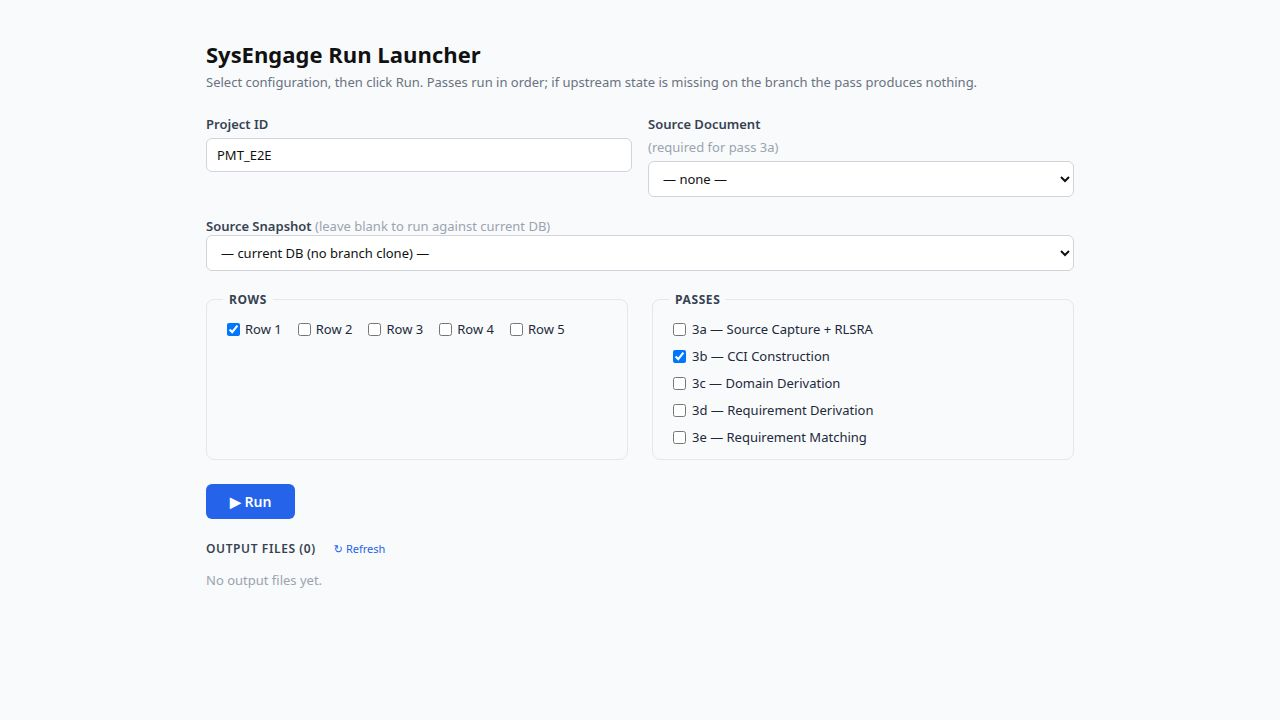
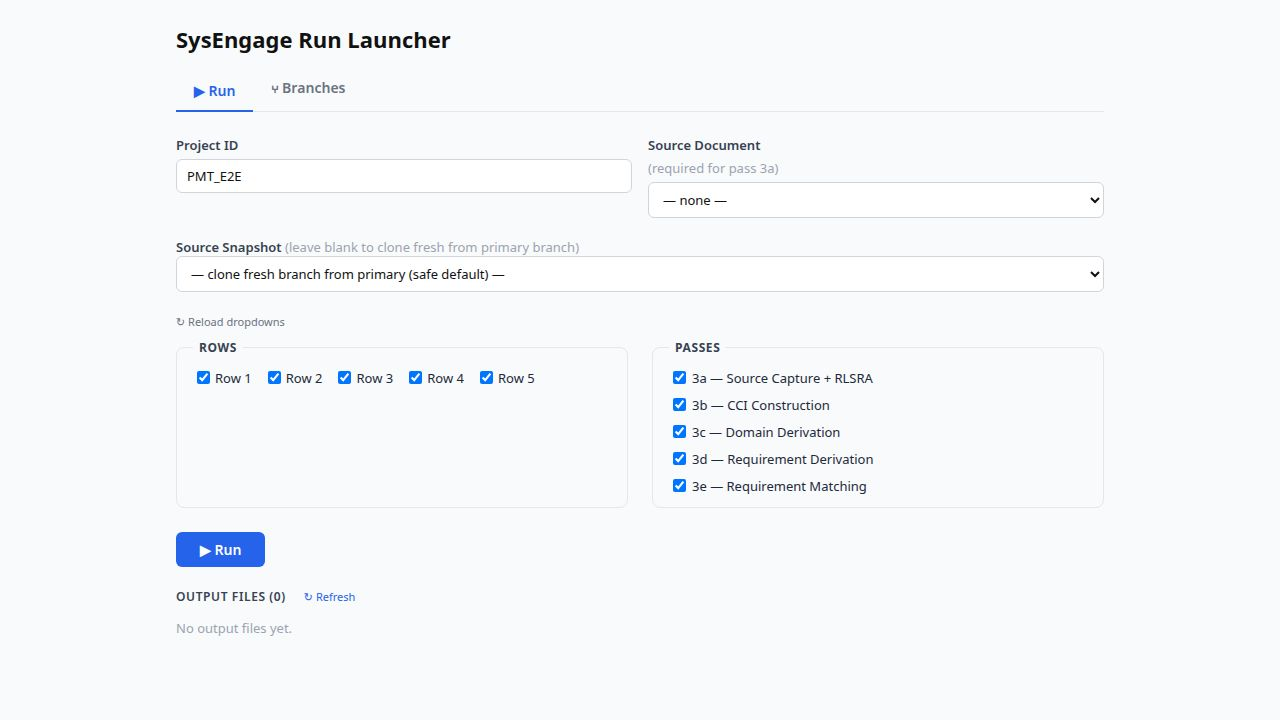
feat(launcher): add per-row progress strip to the Run launcher
Task: Show per-row progress in the launcher so you know which rows are done at a glance

## What was built
Added a compact RowProgressStrip component that appears above the live log console
whenever a run is active. It shows a badge per row — R1 ✓  R2 ⟳  R3 – — that
updates in real time as the dispatch loop processes each row.

## Implementation details
- Parse the existing SSE log stream for two banner strings emitted by run_dispatch.py:
    "[dispatch] ════ Row N — starting passes ════"  → mark row as "running"
    "[dispatch] ════ Row N complete — exporting…"   → mark row as "done"
- No API or backend changes required.
- Row statuses: pending (–, gray) / running (⟳, blue, spinning icon) / done (✓, green) /
  failed (✗, red — applied to any still-running/pending rows when the process exits non-zero).
- Clicking a "done" badge scrolls the log pane to the "Row N complete" banner line.
  Implemented via data-log-idx attributes and scrollIntoView. Badge click passes the
  stored completion line index (rowCompleteLine[row]) to scrollToLogLine — not the row
  number — so the scroll lands on the exact banner line.
- When a fresh run is started the rows are pre-populated as "pending" immediately so
  the strip appears before the first banner line arrives.
- When reconnecting to an already-active run on page load, rows are discovered
  dynamically as their start banners appear in the replayed log stream.
[…]

diff --git a/artifacts/launcher/src/App.tsx b/artifacts/launcher/src/App.tsx
@@ -40,6 +40,8 @@ interface RunState {
   logs: string[];
 }
 
+type RowStatus = "pending" | "running" | "done" | "failed";
+
 // ---------------------------------------------------------------------------
 // Constants
 // ---------------------------------------------------------------------------
@@ -53,6 +55,10 @@ const PASS_LABELS: Record<string, string> = {
   "3d": "3d — Requirement Derivation",
   "3e": "3e — Requirement Matching",
 };
+
+// Regex patterns for the run_dispatch.py banner strings
+const ROW_START_RE = /\[dispatch\] ════ Row (\d+) — starting passes/;
+const ROW_COMPLETE_RE = /\[dispatch\] ════ Row (\d+) complete/;
 
 // ---------------------------------------------------------------------------
 // Shared styles
@@ -79,6 +85,71 @@ const checkLabelStyle: React.CSSProperties = {
 };
 
 // ---------------------------------------------------------------------------
+// RowProgressStrip
+// ---------------------------------------------------------------------------
+
+const STATUS_CONFIG: Record<RowStatus, { icon: string; bg: string; fg: string; border: string; title: string }> = {
+  pending: { icon: "–",  bg: "#f3f4f6", fg: "#6b7280", border: "#d1d5db", title: "Pending" },
+  running: { icon: "⟳",  bg: "#eff6ff", fg: "#2563eb", border: "#93c5fd", title: "Running" },
+  done:    { icon: "✓",  bg: "#f0fdf4", fg: "#16a34a", border: "#86efac", title: "Done" },
+  failed:  { icon: "✗",  bg: "#fef2f2", fg: "#dc2626", border: "#fca5a5", title: "Failed" },
+};
+
+interface RowProgressStripProps {
+  rowProgress: Record<number, RowStatus>;
+  rowCompleteLine: Record<number, number>;
+  onBadgeClick: (row: number) => void;
+}
+
+function RowProgressStrip({ rowProgress, rowCompleteLine, onBadgeClick }: RowProgressStripProps) {
+  const rows = Object.keys(rowProgress).map(Number).sort((a, b) => a - b);
+  if (rows.length === 0) return null;
+
+  return (
+    <div style={{
+      display: "flex", alignItems: "center", gap: 8, flexWrap: "wrap",
+      background: "#f8fafc", border: "1px solid #e2e8f0", borderRadius: 8,
+      padding: "10px 14px", marginBottom: 14,
+    }}>
+      <span style={{ fontSize: 11, fontWeight: 700, color: "#475569", textTransform: "uppercase", letterSpacing: "0.06em", marginRight: 4 }}>
+        Rows
+      </span>
+      {rows.map(row => {
+        const status = rowProgress[row];
+        const cfg = STATUS_CONFIG[status];
+        const hasCompleteLine = rowCompleteLine[row] !== undefined;
+        const clickable = hasCompleteLine;
+        return (
+          <button
+            key={row}
+            title={`Row ${row}: ${cfg.title}${clickable ? " — click to jump to completion in log" : ""}`}
+            onClick={() => clickable && onBadgeClick(rowCompleteLine[row])}
+            style={{
+              display: "inline-flex", alignItems: "center", gap: 4,
+              background: cfg.bg, color: cfg.fg,
+              border: `1px solid ${cfg.border}`,
+              borderRadius: 6, padding: "3px 10px",
+              fontSize: 12, fontWeight: 700,
+              cursor: clickable ? "pointer" : "default",
+              transition: "opacity 0.15s",
+              fontFamily: "system-ui, sans-serif",
+            }}
+          >
+            <span style={{ fontWeight: 600, color: "#64748b", marginRight: 1 }}>R{row}</span>
+            <span style={{
+              fontSize: status === "running" ? 14 : 13,
+              display: "inline-block",
+              animation: status === "running" ? "spin 1.2s linear infinite" : undefined,
+            }}>{cfg.icon}</span>
+          </button>
+        );
+      })}
+      <style>{`@keyframes spin { from { transform: rotate(0deg); } to { transform: rotate(360deg); } }`}</style>
+    </div>
+  );
+}
+
+// ---------------------------------------------------------------------------
 // LaunchPage
 // ---------------------------------------------------------------------------
 
@@ -94,9 +165,12 @@ function LaunchPage() {
   const [sourceDoc, setSourceDoc] = useState("");
 
   const [run, setRun] = useState<RunState>({ runId: null, running: false, exitCode: null, logs: [] });
+  const [rowProgress, setRowProgress] = useState<Record<number, RowStatus>>({});
+  const [rowCompleteLine, setRowCompleteLine] = useState<Record<number, number>>({});
 
   const logRef = useRef<HTMLDivElement>(null);
   const esRef = useRef<EventSource | null>(null);
+  const logCountRef = useRef(0);
 
   const fetchOutputs = useCallback(() => {
     fetchWithRetry(`${API}/outputs`).then(r => r.json()).then(setOutputs).catch(() => {});
@@ -108,21 +182,59 @@ function LaunchPage() {
     fetchOutputs();
   }, [fetchOutputs]);
 
-  const connectToRun = useCallback((runId: string) => {
+  const connectToRun = useCallback((runId: string, initialRows?: number[]) => {
+    logCountRef.current = 0;
     setRun({ runId, running: true, exitCode: null, logs: [] });
+    setRowCompleteLine({});
+    if (initialRows && initialRows.length > 0) {
+      const init: Record<number, RowStatus> = {};
+      for (const r of initialRows) init[r] = "pending";
+      setRowProgress(init);
+    } else {
+      setRowProgress({});
+    }
+
     const es = new EventSource(`${API}/runs/${runId}/logs`);
     esRef.current = es;
+
     es.addEventListener("log", (e) => {
       const line = JSON.parse((e as MessageEvent).data) as string;
+      const idx = logCountRef.current;
+      logCountRef.current += 1;
+
+      const startMatch = line.match(ROW_START_RE);
+      if (startMatch) {
+        const rowNum = parseInt(startMatch[1], 10);
+        setRowProgress(prev => ({ ...prev, [rowNum]: "running" }));
+      }
+
+      const completeMatch = line.match(ROW_COMPLETE_RE);
+      if (completeMatch) {
+        const rowNum = parseInt(completeMatch[1], 10);
+        setRowProgress(prev => ({ ...prev, [rowNum]: "done" }));
+        setRowCompleteLine(prev => ({ ...prev, [rowNum]: idx }));
+      }
+
       setRun(prev => ({ ...prev, logs: [...prev.logs, line] }));
     });
+
     es.addEventListener("done", (e) => {
       const { exitCode } = JSON.parse((e as MessageEvent).data) as { exitCode: number };
       setRun(prev => ({ ...prev, running: false, exitCode }));
+      if (exitCode !== 0) {
+        setRowProgress(prev => {
+          const n = { ...prev };
+          for (const k of Object.keys(n)) {
+            if (n[Number(k)] === "running" || n[Number(k)] === "pending") n[Number(k)] = "failed";
+          }
+          return n;
+        });
+      }
       es.close(); esRef.current = null;
       fetchOutputs();
       reloadConfig();
     });
+
     es.onerror = () => { setRun(prev => ({ ...prev, running: false })); es.close(); esRef.current = null; };
   }, [fetchOutputs, reloadConfig]);
 
@@ -142,6 +254,11 @@ function LaunchPage() {
     if (logRef.current) logRef.current.scrollTop = logRef.current.scrollHeight;
   }, [run.logs]);
 
+  function scrollToLogLine(lineIdx: number) {
+    const el = logRef.current?.querySelector(`[data-log-idx="${lineIdx}"]`);
+    if (el) el.scrollIntoView({ behavior: "smooth", block: "center" });
+  }
+
   function toggleRow(r: number) {
     setSelectedRows(prev => { const n = new Set(prev); n.has(r) ? n.delete(r) : n.add(r); return n; });
   }
@@ -153,6 +270,7 @@ function LaunchPage() {
     if (run.running) return;
     if (!selectedRows.size || !selectedPasses.size) { alert("Select at least one row and one pass."); return; }
 
+    const rows = Array.from(selectedRows).sort((a, b) => a - b);
     setRun({ runId: null, running: true, exitCode: null, logs: [] });
 
     try {
@@ -160,7 +278,7 @@ function LaunchPage() {
         method: "POST",
         headers: { "Content-Type": "application/json" },
         body: JSON.stringify({
-          project, rows: Array.from(selectedRows).sort((a, b) => a - b),
+          project, rows,
           passes: PASSES.filter(p => selectedPasses.has(p)),
           snapshot: snapshot || undefined,
           sourceDoc: sourceDoc || undefined,
@@ -181,7 +299,7 @@ function LaunchPage() {
       }
 
       const { runId } = await resp.json() as { runId: string };
-      connectToRun(runId);
+      connectToRun(runId, rows);
     } catch {
       setRun(prev => ({ ...prev, running: false }));
     }
@@ -196,6 +314,8 @@ function LaunchPage() {
     : run.exitCode === 0 ? "#16a34a"
     : run.exitCode !== null ? "#dc2626"
     : "#6b7280";
+
+  const showLog = run.logs.length > 0 || run.running;
 
   return (
     <div>
@@ -271,12 +391,23 @@ function LaunchPage() {
         {runStatus && <span style={{ fontSize: 13, fontWeight: 500, color: statusColor }}>{runStatus}</span>}
       </div>
 
-      {(run.logs.length > 0 || run.running) && (
+      {showLog && (
         <div style={{ marginBottom: 24 }}>
           <div style={{ fontSize: 12, fontWeight: 600, color: "#374151", marginBottom: 6, textTransform: "uppercase", letterSpacing: "0.05em" }}>Live Output</div>
+
+          <RowProgressStrip
+            rowProgress={rowProgress}
+            rowCompleteLine={rowCompleteLine}
+            onBadgeClick={scrollToLogLine}
+          />
+
           <div ref={logRef} style={{ background: "#0f172a", color: "#e2e8f0", fontFamily: "Menlo, Monaco, 'Courier New', monospace", fontSize: 12, lineHeight: 1.6, padding: "12px 14px", borderRadius: 8, height: 380, overflowY: "auto", whiteSpace: "pre-wrap", wordBreak: "break-all" }}>
             {run.logs.map((line, i) => (
-              <div key={i} style={{ color: line.startsWith("[stderr]") ? "#f87171" : "#e2e8f0" }}>{line}</div>
+              <div
+                key={i}
+                data-log-idx={i}
+                style={{ color: line.startsWith("[stderr]") ? "#f87171" : "#e2e8f0" }}
+              >{line}</div>
             ))}
             {run.running && <div style={{ color: "#60a5fa", opacity: 0.7 }}>▌</div>}
           </div>
@@ -355,7 +486,7 @@ function BranchesPage() {
   useEffect(() => { void load(); }, [load]);
 
   async function deleteBranch(b: BranchInfo) {
-    if (b.hasChildren) return; // button is disabled, but belt-and-suspenders
+    if (b.hasChildren) return;
     const confirmed = window.confirm(
       `Delete branch "${b.name}"?\n\nThis is permanent and cannot be undone.`
     );
@@ -496,7 +627,6 @@ export default function App() {
     <div style={{ fontFamily: "system-ui, -apple-system, sans-serif", maxWidth: 960, margin: "0 auto", padding: "24px 16px", color: "#111" }}>
       <h1 style={{ fontSize: 22, fontWeight: 700, margin: "0 0 16px" }}>SysEngage Run Launcher</h1>
 
-      {/* Tab bar */}
       <div style={{ display: "flex", borderBottom: "1px solid #e5e7eb", marginBottom: 24 }}>
         <button style={tabStyle("launch")} onClick={() => setTab("launch")}>▶ Run</button>
         <button style={tabStyle("branches")} onClick={() => setTab("branches")}>⑂ Branches</button>